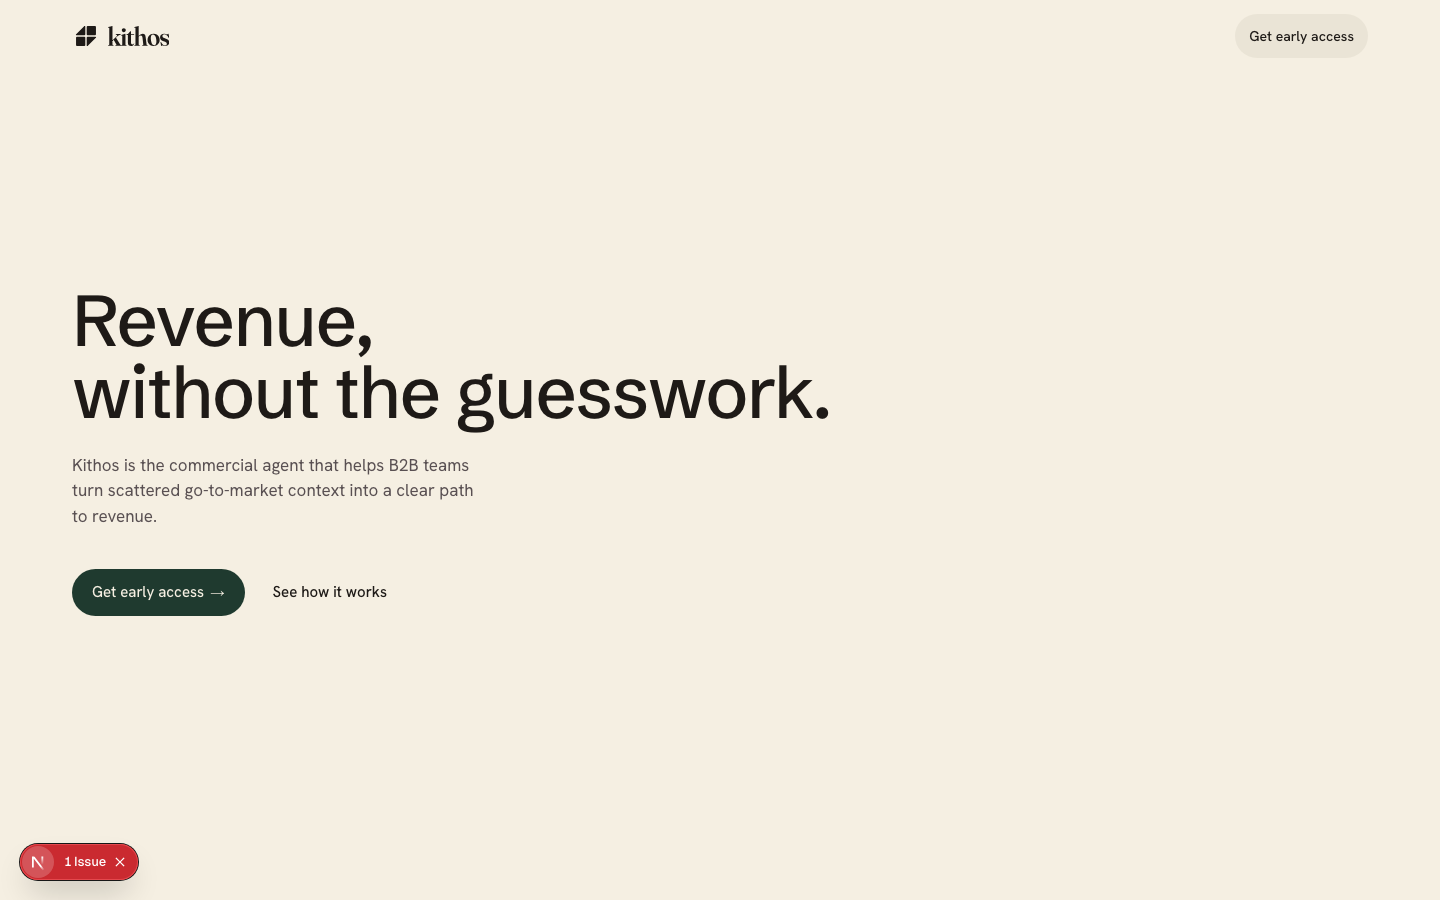
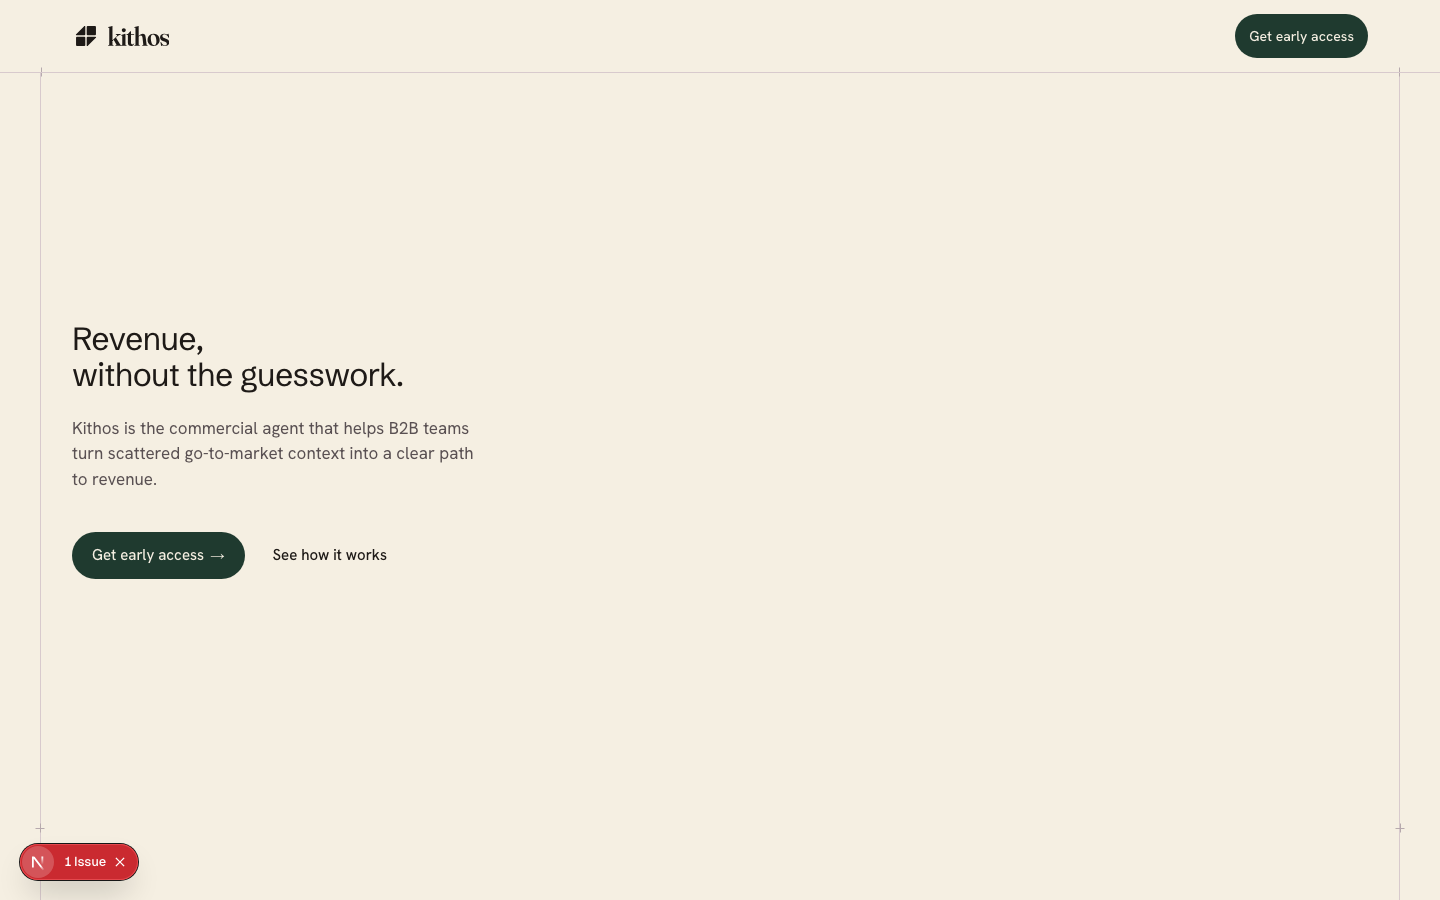
style(v2): shrink display ladder one step + drop hero to weight 400
User feedback: the hero display was still reading too large at the
prior 48px cap, and the 500 weight was contributing to the
overpowering feel.

Verified by looking at the rendered output. Two changes:

  .v2-display    48px → 32px (next step down on brand scale,
                                --type-section → --type-rule).
                 weight 500 → 400 (override the shared display
                                weight; restores the editorial
                                Schibsted Grotesk register the
                                previous /v2 design used).

  .v2-statement  48px → 32px (--type-section → --type-rule).
                 Dropped in step so the hero remains the largest
                 line on the page. MotionStatement's synthesis
                 line and the ScrollStatement headline now both
                 sit at 32px alongside the hero.

  .v2-heading    unchanged at 32px (cards + pentagon).

The ladder is now visually compressed: hero, statements, cards
all cap at 32px. Differentiation comes from weight (hero is the
only 400-weight class) and from position in the page rather than
from size.

Visual baselines refreshed for all five /v2 captures. 25/25 green.

Changed region(s): [[0.0312, 0.3111, 0.5938, 0.6844], [0.8438, 0.0, 0.9688, 0.0933]]

diff --git a/src/app/globals.css b/src/app/globals.css
@@ -390,19 +390,21 @@ html { scroll-behavior: smooth; }
   font-weight: 500;
   text-wrap: balance;
 }
-/* Hero display caps at the brand `--type-section` (48px) rather
-   than `--type-display` (72px) — the larger value reads as overscaled
-   on this page's flat editorial hero. Tracking + line-height stay
-   on the display token spec. */
+/* Hero display — toned to the brand `--type-rule` step (32px) and
+   shifted to weight 400. Brand kit specifies weight 500 for display
+   text, but at the flat-editorial size the heavier weight read as
+   overpowering; weight 400 gives the refined Schibsted Grotesk
+   register the previous /v2 design used. */
 .v2-display {
-  font-size: clamp(2rem, 4vw, var(--type-section));          /* up to 48px */
-  line-height: 1.05;
+  font-weight: 400;
+  font-size: clamp(1.75rem, 3vw, var(--type-rule));          /* up to 32px */
+  line-height: 1.1;
   letter-spacing: var(--track-display);
 }
 .v2-statement {
-  font-size: clamp(2rem, 3.8vw, var(--type-section));        /* up to 48px */
-  line-height: 1.05;
-  letter-spacing: var(--track-section);
+  font-size: clamp(1.75rem, 3vw, var(--type-rule));          /* up to 32px */
+  line-height: 1.1;
+  letter-spacing: var(--track-rule);
 }
 .v2-heading {
   font-size: clamp(1.5rem, 2.4vw, var(--type-rule));         /* up to 32px */